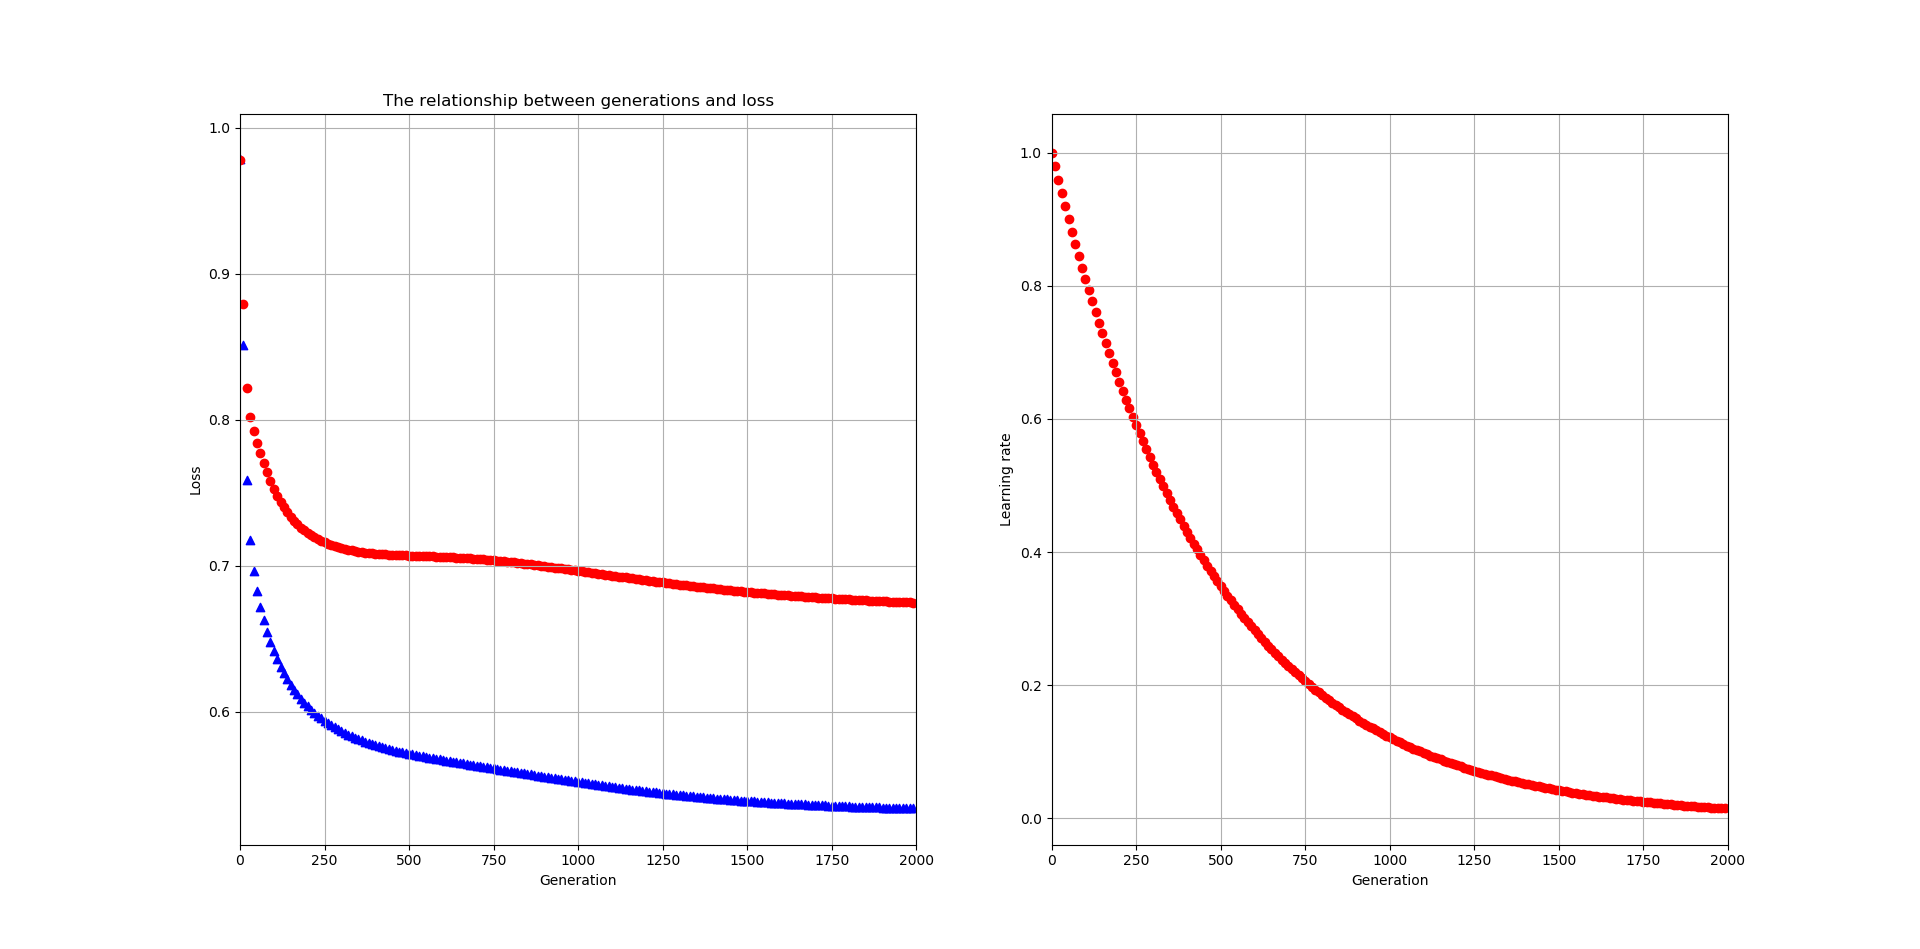
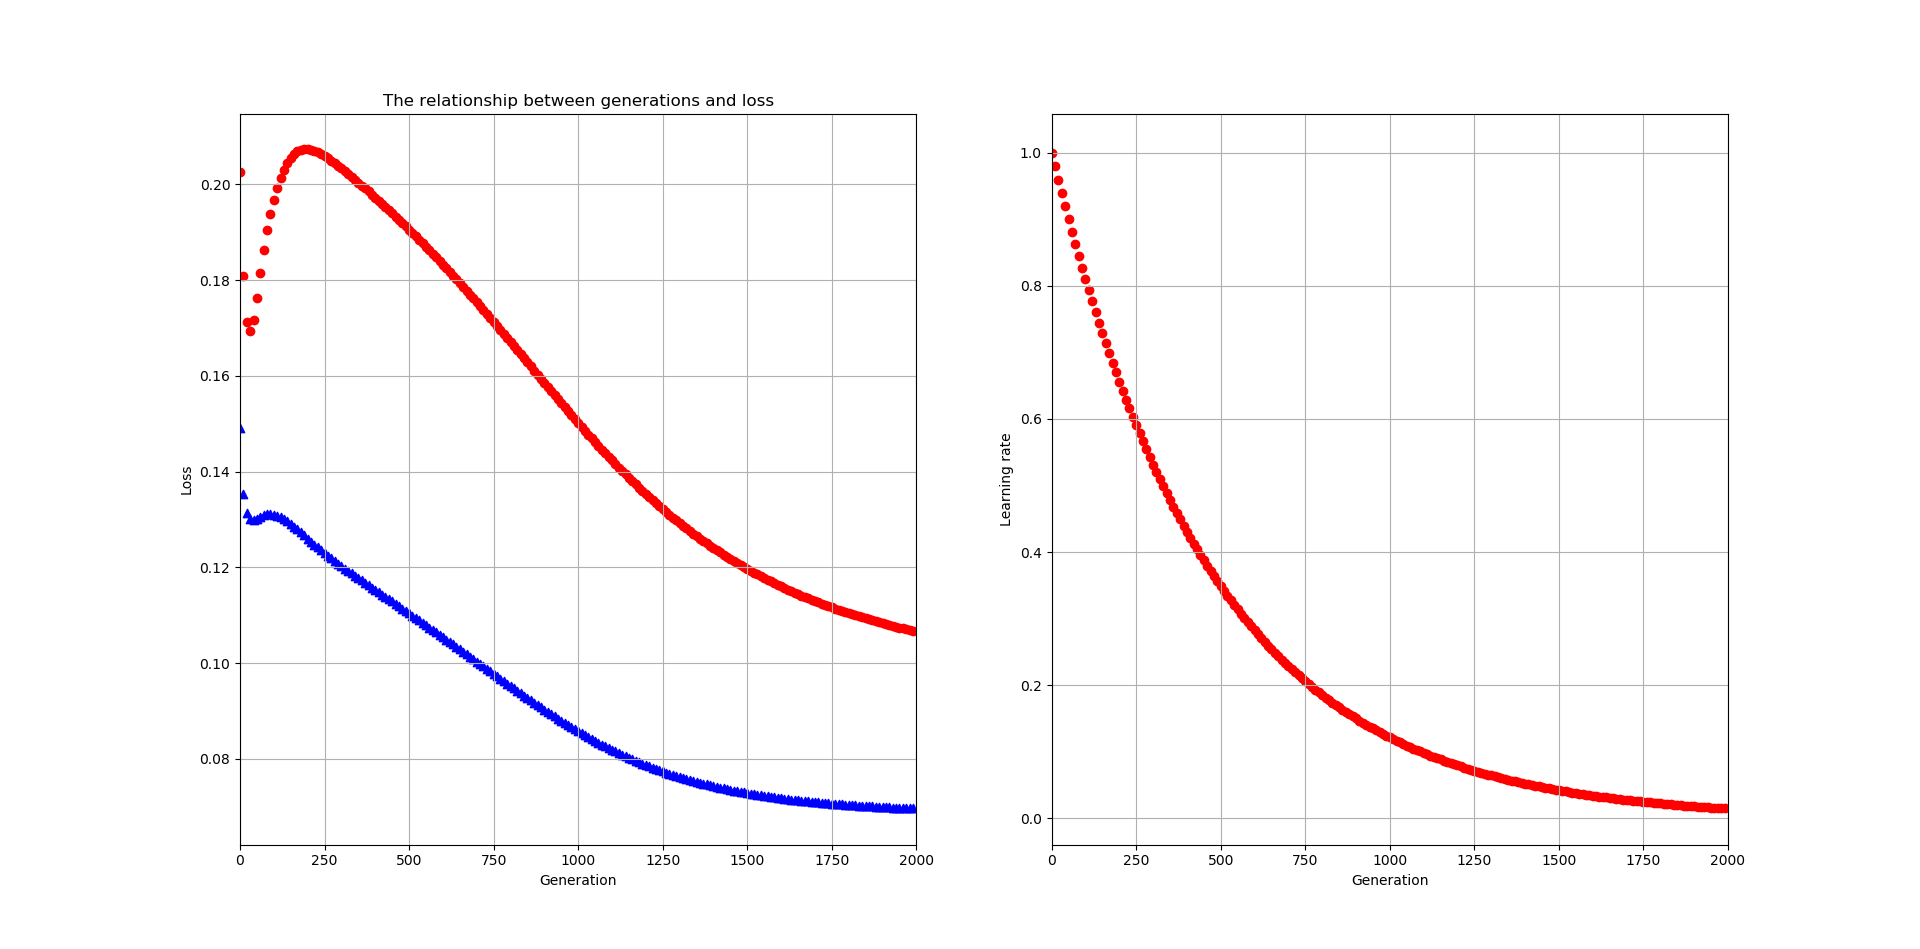
change some parameter

diff --git a/Lecture6/decrease_learning_rate.py b/Lecture6/decrease_learning_rate.py
@@ -58,8 +58,8 @@ def main():
 
         if i % 10 == 0:
             plt.subplot(121)
-            plt.scatter(i, (loss_train / 8), marker="^", c='b')
-            plt.scatter(i, (loss_test / 2), marker='o', c='r')
+            plt.scatter(i, (loss_train / 64), marker="^", c='b')
+            plt.scatter(i, (loss_test / 16), marker='o', c='r')
             plt.subplot(122)
             plt.scatter(i, n.lr, marker='o', c='r')
             plt.pause(0.1)
